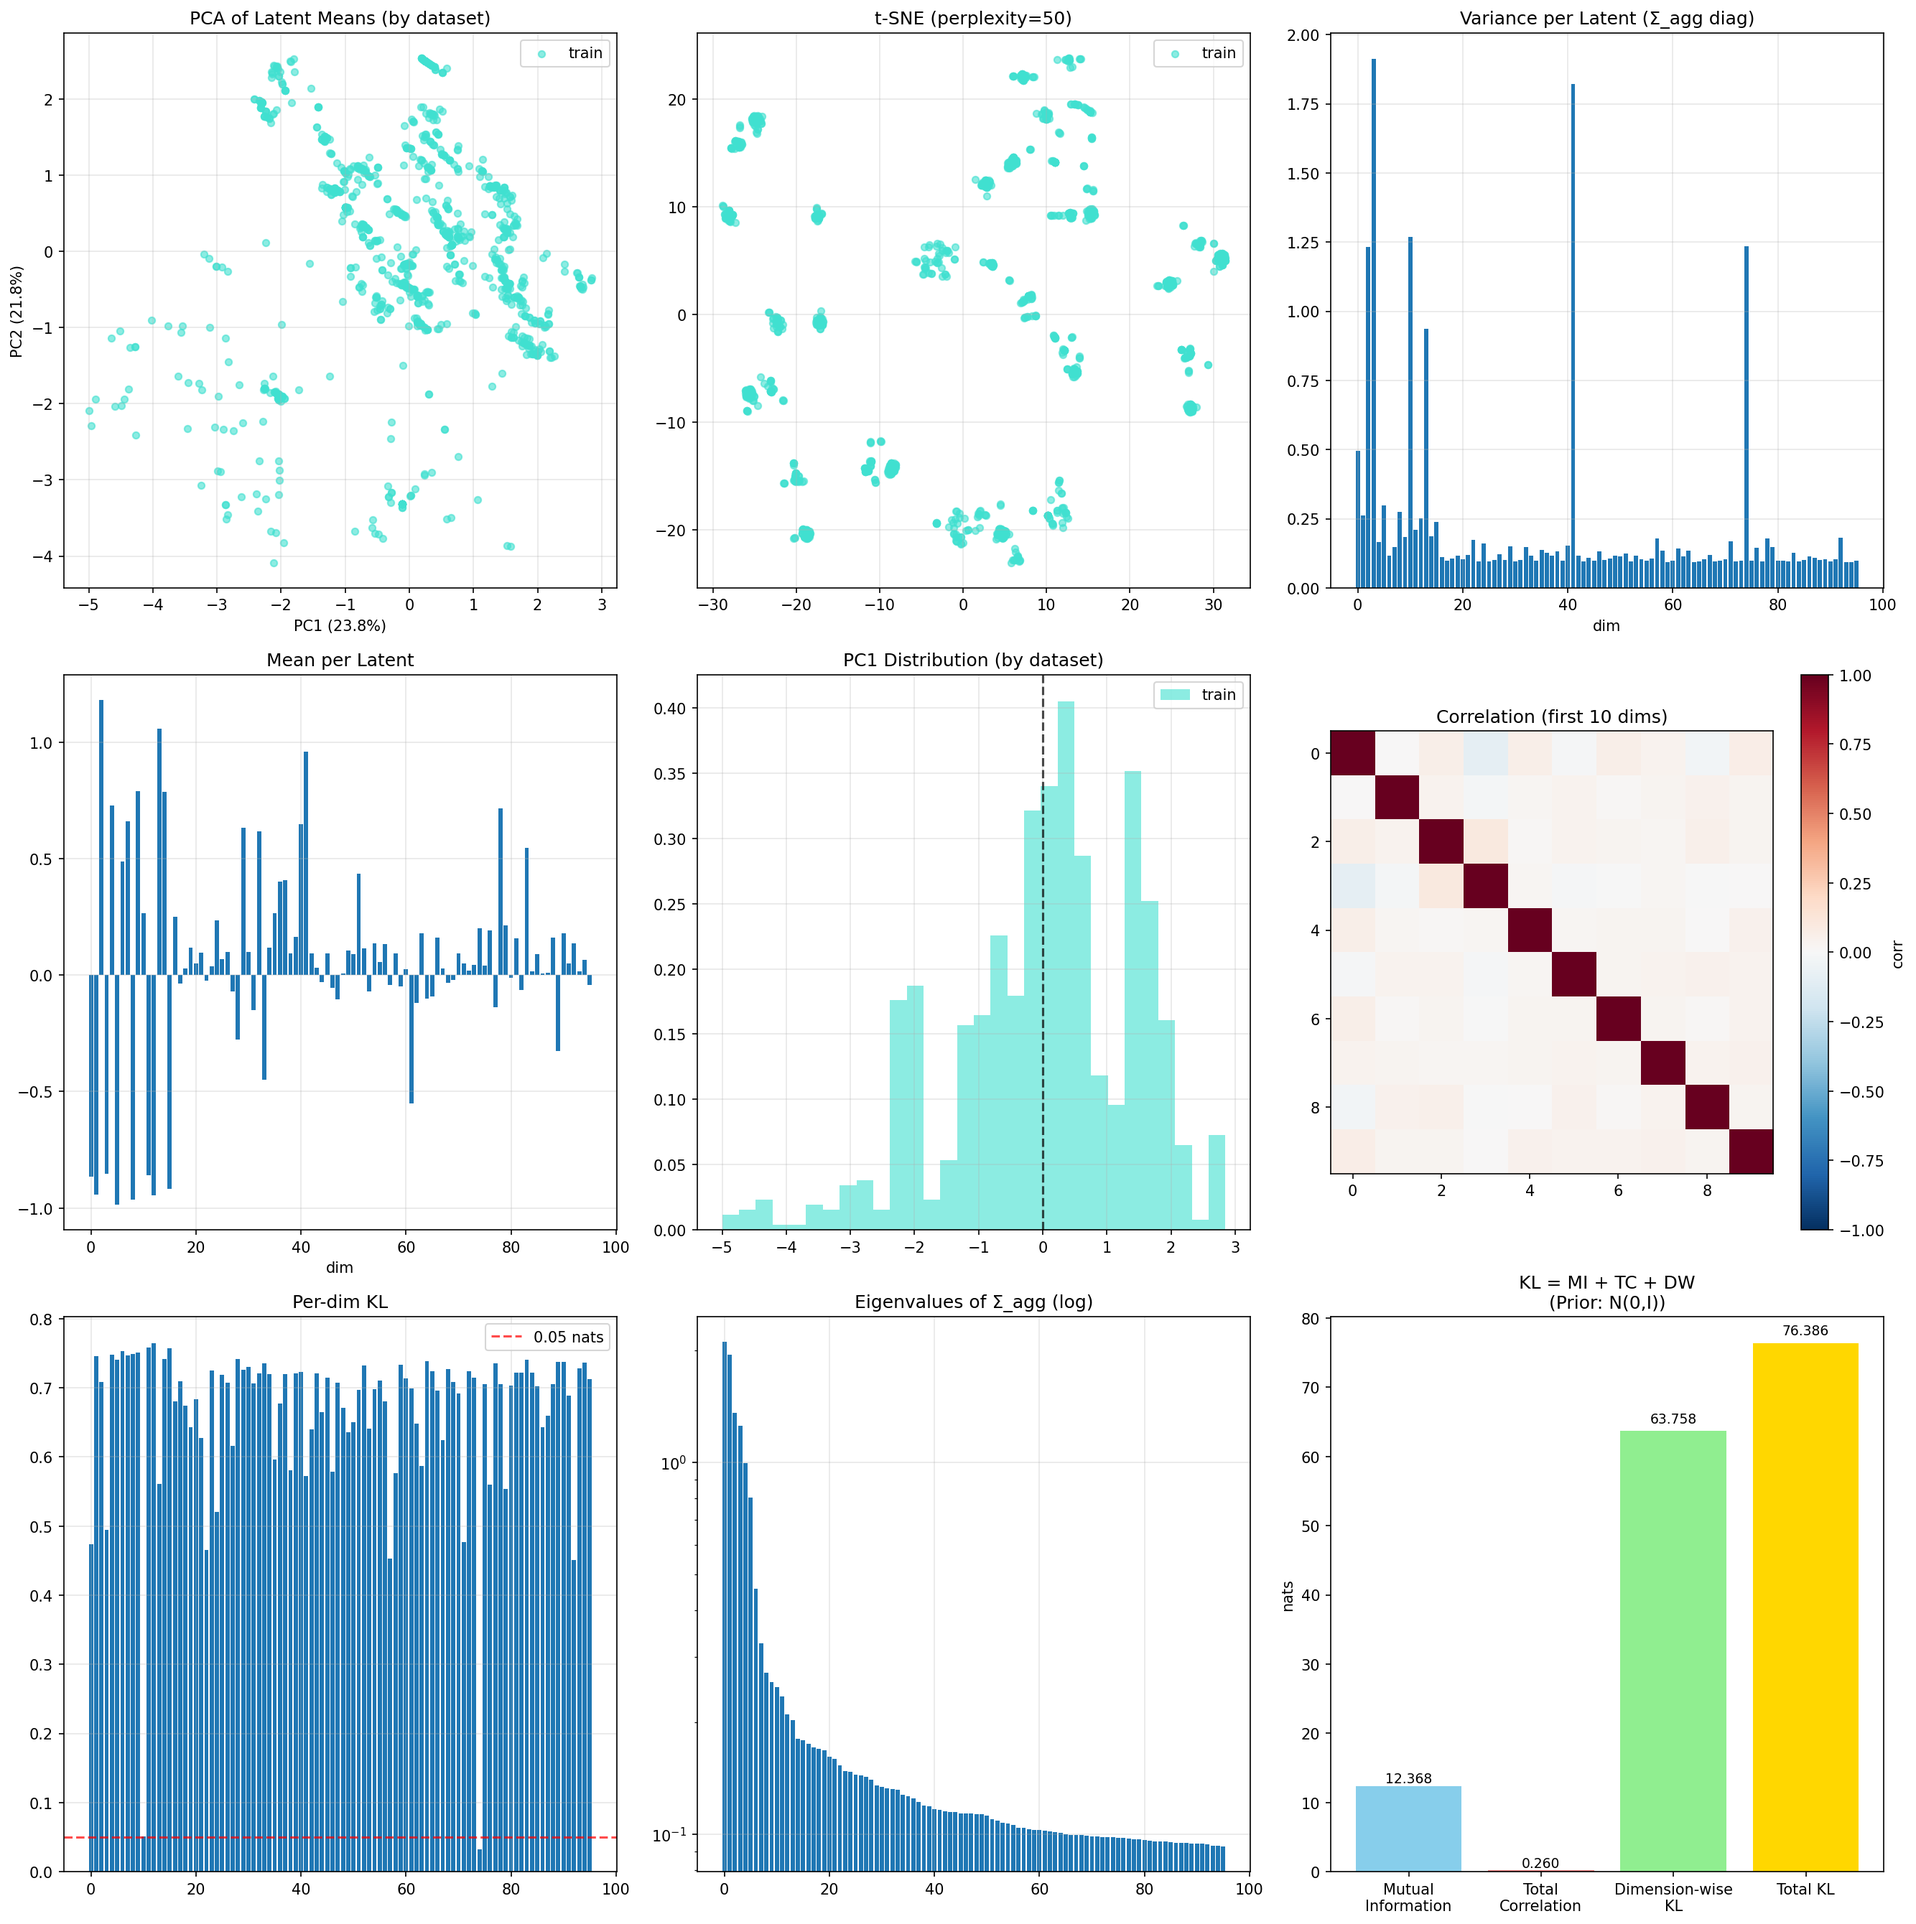
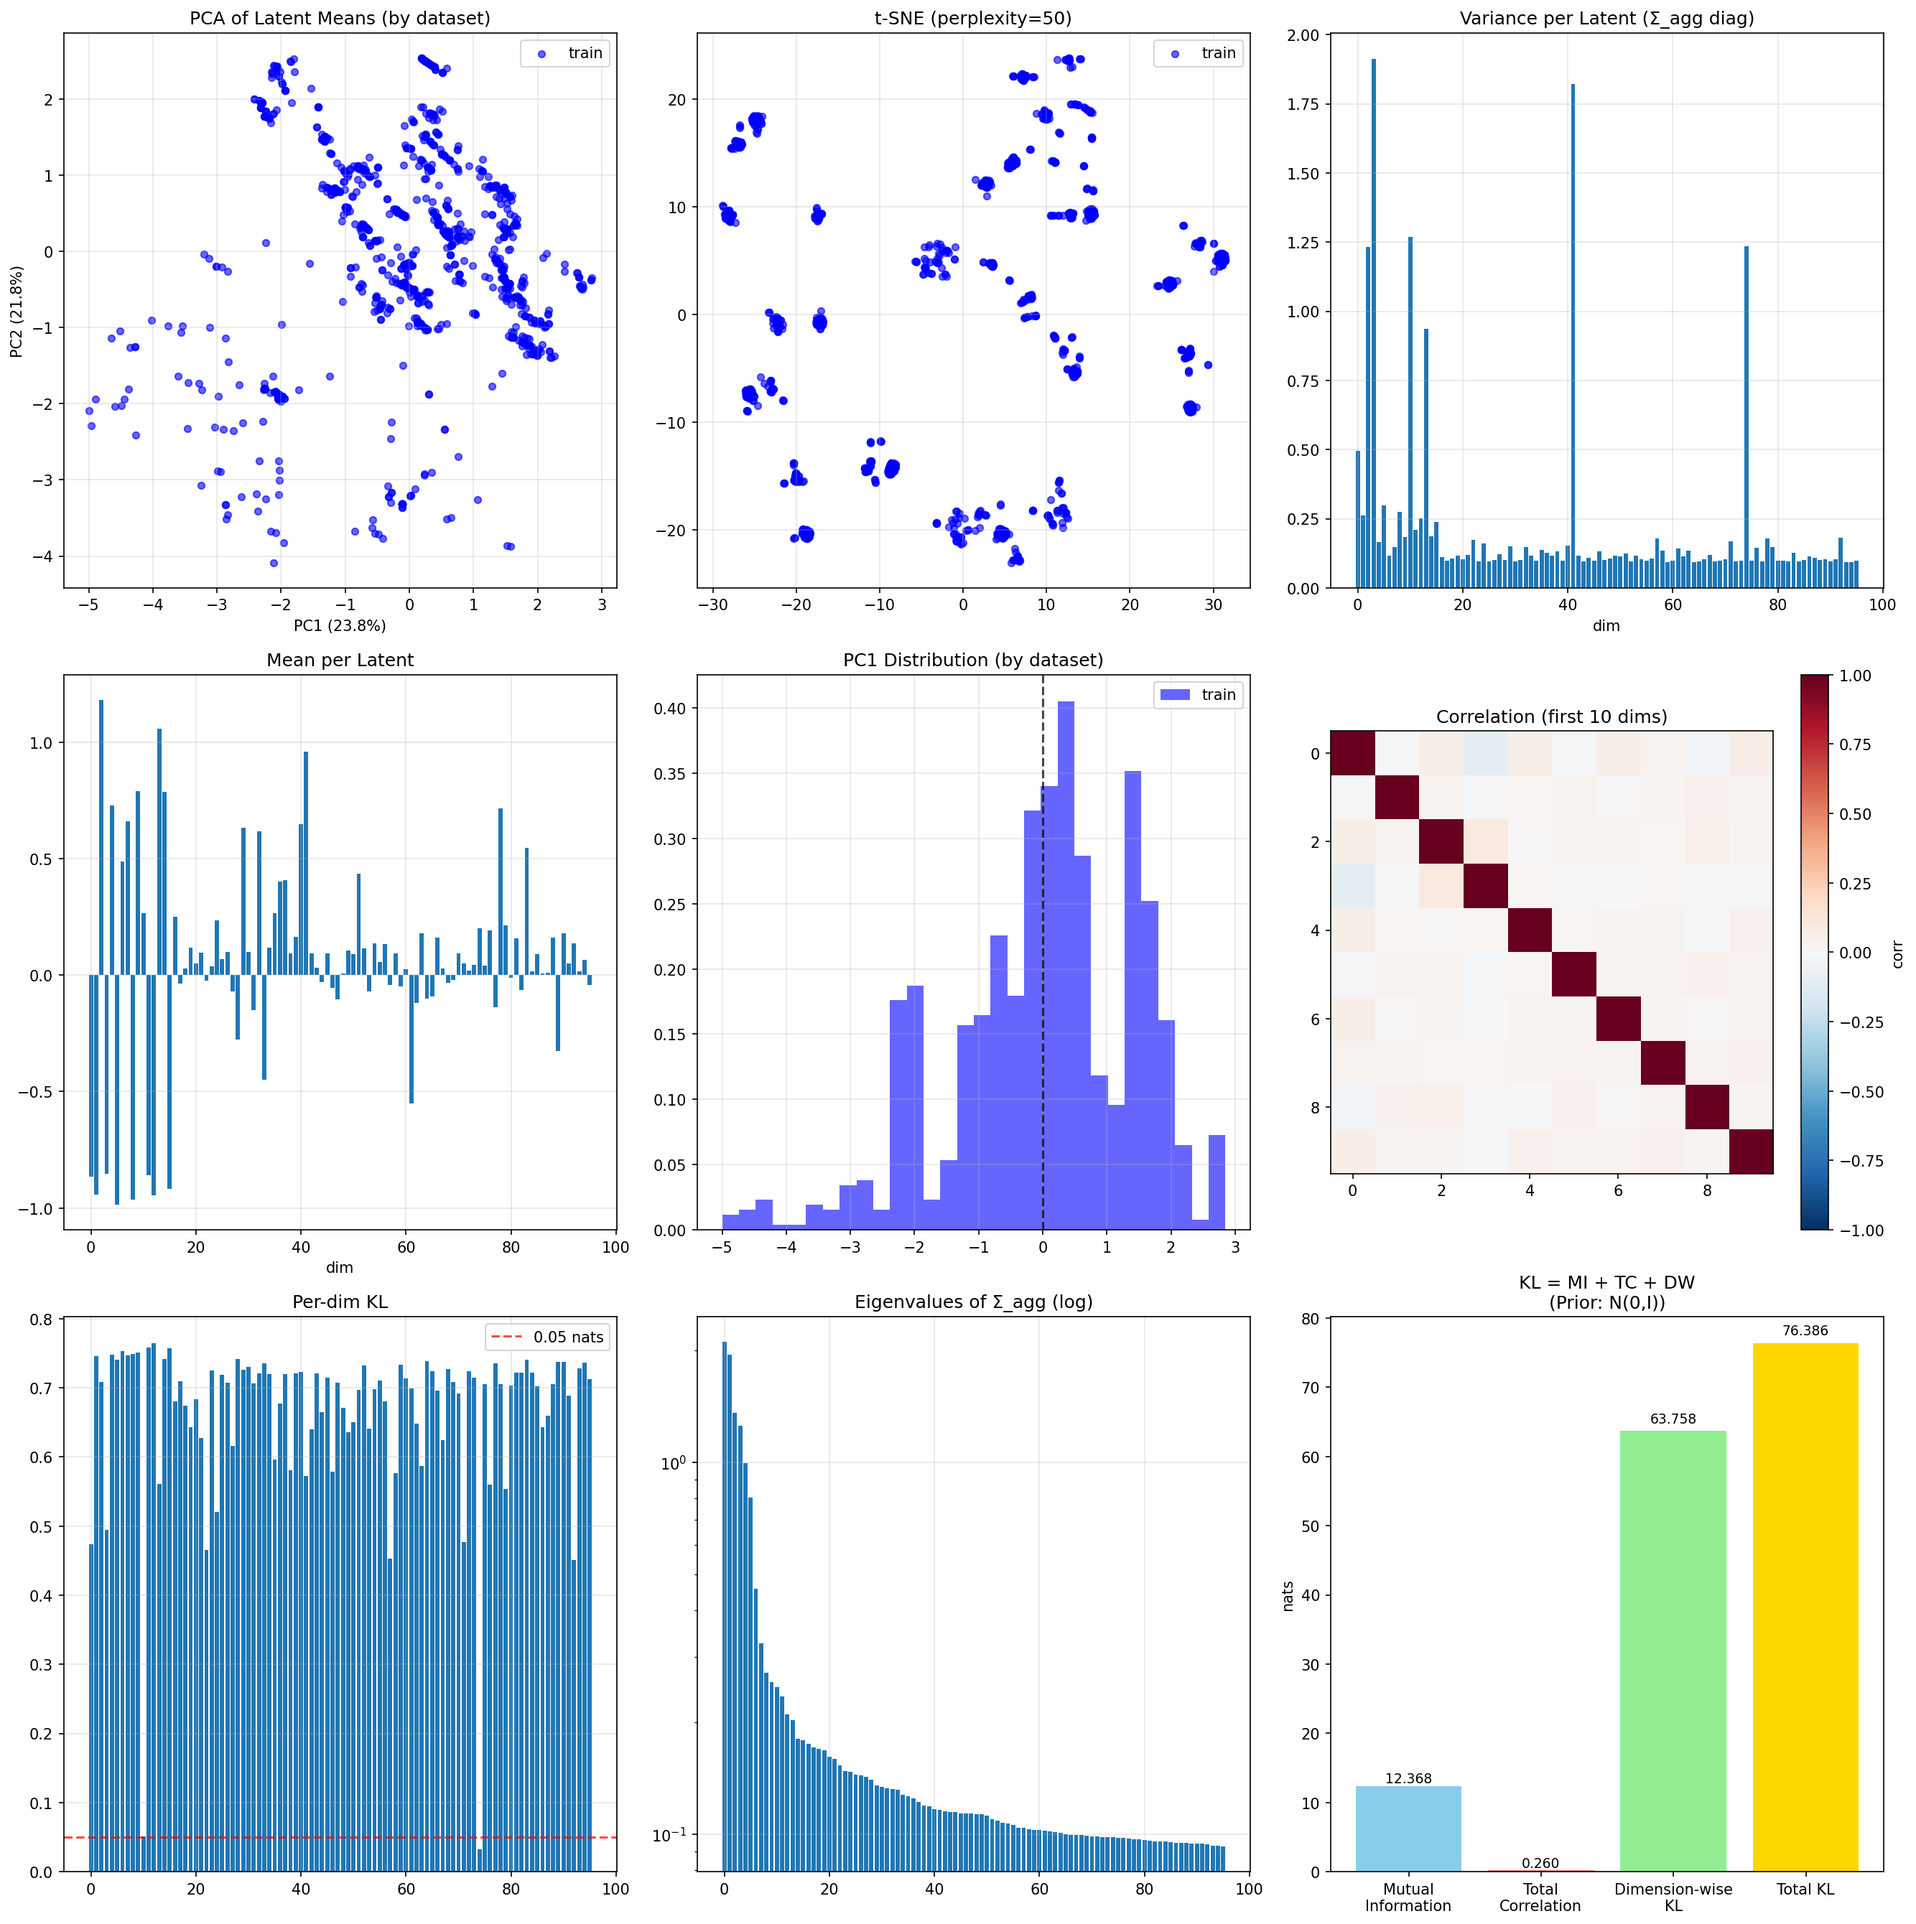
change the color

diff --git a/utils/analysis.py b/utils/analysis.py
@@ -1166,7 +1166,7 @@ def analyze_latent_space(
     individual_plots = {}
 
     # Prepare dataset coloring variables (used later in code regardless of HMM)
-    palette = ['turquoise', 'lightcoral', 'green', 'orange', 'purple', 'brown', 'pink', 'gray']
+    palette = ['blue', 'lightcoral', 'green', 'orange', 'purple', 'brown', 'pink', 'gray']
     ds_unique = sorted(set(ds_list))
     ds_to_color = {ds: palette[i % len(palette)] for i, ds in enumerate(ds_unique)}
     ds_mask = {ds: np.array([d == ds for d in ds_list]) for ds in ds_unique}

diff --git a/vae_analysis/train_recon_comparison.md b/vae_analysis/train_recon_comparison.md
@@ -1,6 +1,6 @@
 # Enhanced VAE Reconstruction Comparison
 
-_Generated: 2025-09-27T19:14:46_
+_Generated: 2025-09-27T20:45:27_
 
 This analysis includes the following reconstructions:
 - **Ego View**: Character, color, and class predictions in ego-centric window
